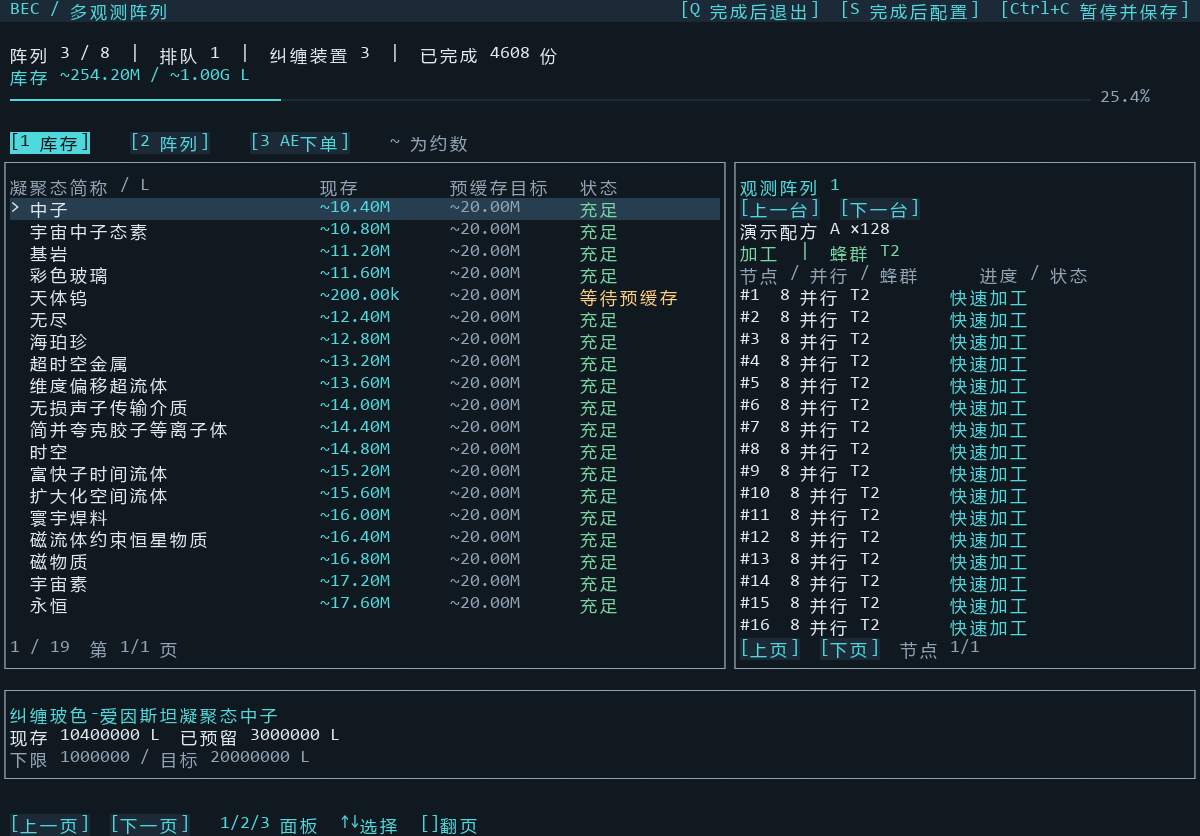
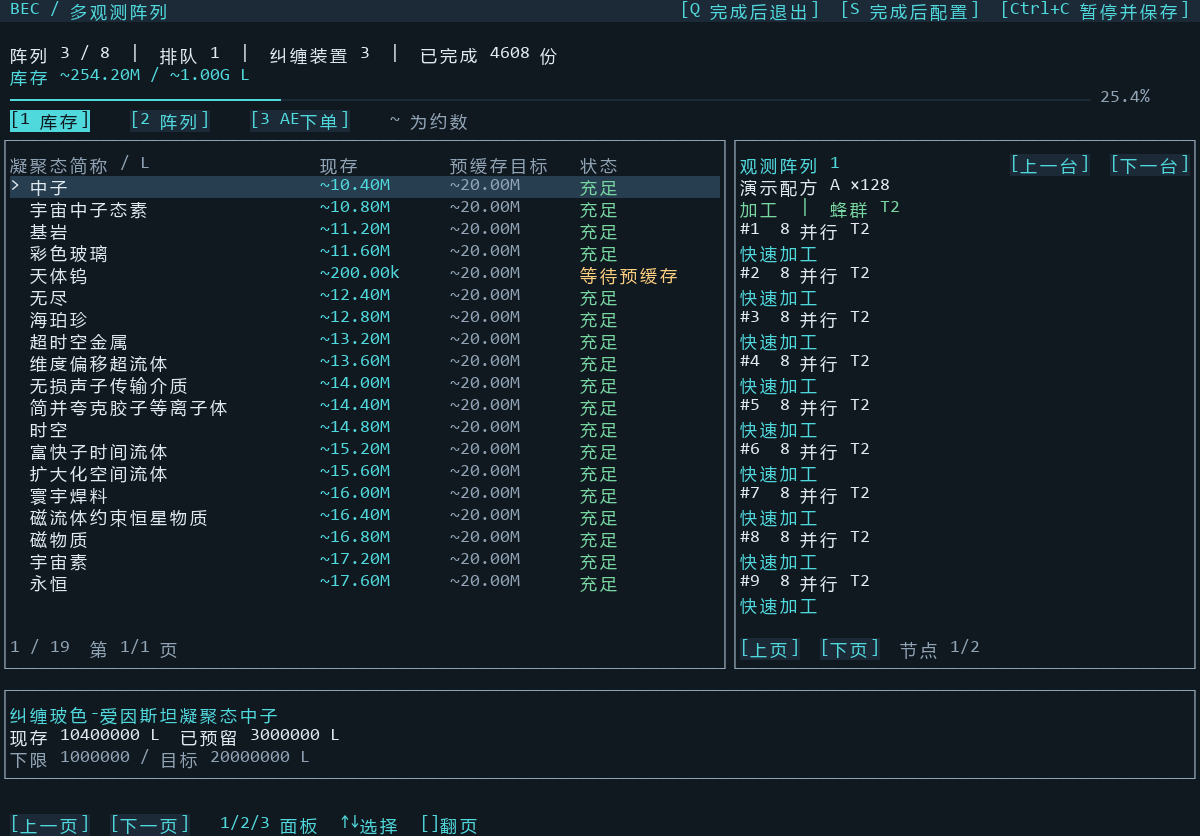
恢复节点两行长进度条布局

diff --git a/wiki/index.html b/wiki/index.html
@@ -2,5 +2,5 @@
 <section><h2>下单 ME 接口配置</h2><p>P1、P2 共用 READ-R 和一个红石输出。配合高级阻挡卡逐单投料；只填公共原料子网控制器、主网样板接口及红石方向。</p><img src="channel.png" alt="Lua 实际渲染的公共原料子网设置"></section>
 <section><h2>观测阵列与传送节点配置</h2><p>逐台绑定未分配节点和麦克斯韦门。填写蜂群池、蜂群转运器、两只 ME-IO 端口与箱子方向。全局算力奇点等待阈值默认为 300 秒，适用于全部阵列；不再设置小单专用阵列。没有原料装载 ME-IO 端口或原料搬运路线。</p><img src="arrays.png" alt="简化后的阵列配置页"><p><a href="shared-bees.html">查看多个颜色末影箱的共享蜂群配置</a></p></section>
 <section><h2>算力奇点收集</h2><p>算力奇点每节点固定 1 并行，同种重复也正常收取。填满一台就开工，剩余原料继续分给其他空闲阵列；未填满时，每次取料刷新等待，超时开工。公共原料网尚有未领取余量时保持锁单。收集期间不借蜂群，普通订单仍可交给其他阵列。</p><p>下图来自运行中的模拟组件与实际 Lua GUI：已经取入 7 份，尚未借用蜂群。Ctrl+C 保存收集进度和未领取余量；Q/S 结束收集并处理已接材料。</p><img src="singularity-collection.png" alt="实际 Lua 渲染的算力奇点收集状态"></section><section><h2>预缓存纠缠流体</h2><p>在“预缓存设备”设置转运器、主网流体转运 ME-IO 端口与两个驱动器方向。每种流体只有一个预缓存开关，紧挨名称；启用后同时登记补充元件。按表格顺序放置：第一台驱动器 1～10 槽，第二台 1～9 槽；关闭后保留空位。过滤仍手动设置，库存目标可点击快捷值；÷2、÷5、×2、×5 只调整当前选中的下限或目标，除法舍去不足 1 L 的部分。</p><img src="fluid.png" alt="预缓存流体配置表"></section>
-<section><h2>自动分配与短暂等候</h2><p>大单尽可能均分给空闲阵列；小单减少占用。若其他阵列已在最后步骤，间隔一秒采样，最多等待五秒；截止时间不延长，也不会把原料预留给忙碌阵列。每台完成后独立接下一单；同池同级蜂群没有其他阵列等待时保留复用。</p><p>原料已经被节点取走后不能重新分配。没有快完成的候选时立即分配，不保证每张订单都占满全部阵列。</p><p>节点每行显示并行数、所需蜂群、进度条、百分比和状态。宽屏一页可看全部 16 个节点；fastTier 显示“快速加工”，完成后显示“本批完成”。</p><img src="runtime-progress.png" alt="宽屏十六节点实际 Lua GPU 渲染"></section>
+<section><h2>自动分配与短暂等候</h2><p>大单尽可能均分给空闲阵列；小单减少占用。若其他阵列已在最后步骤，间隔一秒采样，最多等待五秒；截止时间不延长，也不会把原料预留给忙碌阵列。每台完成后独立接下一单；同池同级蜂群没有其他阵列等待时保留复用。</p><p>原料已经被节点取走后不能重新分配。没有快完成的候选时立即分配，不保证每张订单都占满全部阵列。</p><p>节点每两行显示：第一行是编号、并行数和所需蜂群，第二行是长进度条、百分比和状态。160×50 屏幕一页可看全部 16 个节点；fastTier 显示“快速加工”，完成后显示“本批完成”。</p><img src="runtime-progress.png" alt="宽屏十六节点实际 Lua GPU 渲染"></section>
 <p>安装、退出与续做命令见目录中的使用说明。截图为 Lua GUI 的模拟 GPU 渲染，不是 Minecraft 实机截图。</p></html>

diff --git a/tests/gui_preview.py b/tests/gui_preview.py
@@ -57,7 +57,7 @@ for width, height in ((120, 38), (80, 25), (160, 50)):
         canvas.save(root / 'wiki' / 'runtime.png')
     for name, index in (('fast', 1), ('progress', 2), ('idle', 4)):
         lua.execute(f'ui.arrayIndex={index}; ui:runtime(fixture.engine,fixture.refill)')
-        if width >= 120:
+        if width == 160:
             lua.execute('''
               assert(ui.nodePages == 1, '16 nodes should fit on one page')
               local previous,count=nil,0
@@ -65,7 +65,7 @@ for width, height in ((120, 38), (80, 25), (160, 50)):
                 for _,span in ipairs(row) do
                   assert(not span[2]:find('独立调度',1,true))
                   if span[2]:match('^#%d+  ') then
-                    assert(not previous or y == previous+1, 'nodes should use consecutive rows')
+                    assert(not previous or y == previous+2, 'nodes should use two rows each')
                     previous=y; count=count+1
                   end
                 end

diff --git a/测试说明.md b/测试说明.md
@@ -44,12 +44,12 @@ GUI 渲染脚本使用 Windows 的微软雅黑和 Consolas 字体。渲染文件
 - 真实取料过程中区分等待其他阵列、核对原料和核对凝聚物库存。
 - 真实缺液持续运行时保持“等待凝聚物”，不把采样间隔误报为正在核对。
 - 场强容量不足时显示完整处理说明，底部蜂群摘要不覆盖第二行。
-- 加工完成后标题、节点与详情一致，宽屏全部 16 节点显示“本批完成”。
-- 普通进度条、百分比、等待等级和 fastTier 显示；重启后稀疏节点按地址对应。
+- 加工完成后标题、节点与详情一致，160×50 屏幕全部 16 节点显示“本批完成”。
+- 每节点两行的长进度条、百分比、等待等级和 fastTier 显示，较小屏幕节点翻页；重启后稀疏节点按地址对应。
 - 渲染禁止调用机器组件；增量刷新与完整重绘逐字符格相等，未变化区域不重画。
 - 配置点击、中文名称、蜂群箱独立编号、删除箱子和配方记录二次确认。
 
-`tests/gui_preview.py` 遍历配置页和选择器，输出加工、取料、完成、容量不足、算力奇点收集等实际渲染，检查越界及宽屏 16 节点单页布局。
+`tests/gui_preview.py` 遍历配置页和选择器，输出加工、取料、完成、容量不足、算力奇点收集等实际渲染，检查越界及160×50 的 16 节点单页布局。
 
 ## 调度、蜂群与取料
 

diff --git a/使用说明.md b/使用说明.md
@@ -92,7 +92,7 @@ bec_multi.lua run
 
 订单完成后，如果没有其他阵列请求同池同级蜂群，已装载的蜂群会保留，下一单需要同等级时直接复用。空闲或尚未开工时出现同级请求，就归还供其他阵列借用；收集算力奇点期间也会归还。需要换级时仍按原流程装卸，不改变派单顺序。Q/S 完成后归还所有蜂群，Ctrl+C 保存现有归属，重启继续核对。
 
-运行页阵列面板显示物品名、份数、当前蜂群，以及各节点的短进度条、百分比和“加工／等 Tn”等状态。fastTier 显示“快速加工”，不额外读取进度。3×3 屏幕使用 160×50 分辨率时，16 个节点同页显示。
+运行页阵列面板显示物品名、份数和当前蜂群。每个节点占两行：第一行显示编号、并行数和所需蜂群；第二行显示长进度条、百分比和“加工／等 Tn”等状态。fastTier 显示“快速加工”，不额外读取进度。3×3 屏幕使用 160×50 分辨率时，16 个节点同页显示；较小屏幕使用节点翻页按钮。
 
 开工前的状态按实际进度区分：
 
